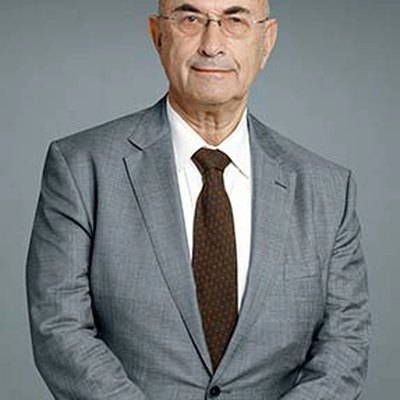
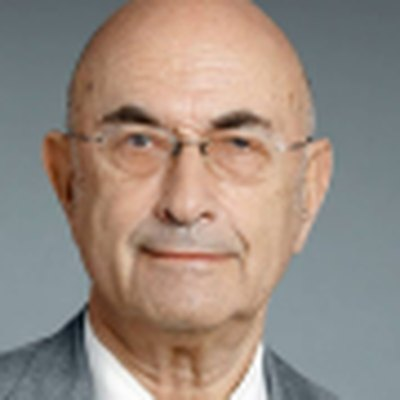
our-story-v3 leadership: real photos + bios for all 6; layout to match Figma (node 116-1699) — heading atop right column, large-name nav rows, title flows in only on active row, inactive at ~10%, left column = ring + description

diff --git a/src/components/OurStoryV3.tsx b/src/components/OurStoryV3.tsx
@@ -215,44 +215,43 @@ export function OurStoryV3() {
         {/* ── Leadership scrollytelling stage ─────────────────────────────── */}
         <div ref={leadRef} className={styles.lead}>
           <div className="wrap">
-            <p className={`eyebrow ${styles.leadEyebrow}`}>Your NESTRE Mindset Team</p>
-            <h2 className={`h2 ${styles.leadH}`}>World-class leadership.</h2>
-
             <div className={styles.leadStage}>
-              {/* left: mindset profile + bio (synced to active) */}
+              {/* left: mindset profile + supporting description (synced to active) */}
               <div className={styles.leadLeft}>
                 <MindsetRingCard values={vals} className={styles.leadRing} />
-                <div key={active} className={styles.bio}>
-                  <div className={styles.bioName}>{member.name}</div>
-                  <div className={styles.bioTitle}>{member.title}</div>
-                  <p className={styles.bioText}>{member.bio}</p>
-                </div>
+                <p key={active} className={styles.bioText}>{member.bio}</p>
               </div>
 
-              {/* right: team nav with active/inactive emphasis */}
-              <div className={styles.leadRight} role="tablist" aria-label="Leadership">
-                {LEADERS.map((l, i) => (
-                  <button
-                    key={l.id}
-                    type="button"
-                    className={`${styles.person} ${i === active ? styles.personOn : ''}`}
-                    aria-current={i === active ? 'true' : undefined}
-                    onClick={() => goTo(i)}
-                  >
-                    <span className={styles.pAva}>
-                      {l.image ? (
-                        // eslint-disable-next-line @next/next/no-img-element
-                        <img src={l.image} alt="" loading="lazy" />
-                      ) : (
-                        <span>{initialsOf(l.name)}</span>
-                      )}
-                    </span>
-                    <span className={styles.pMeta}>
-                      <span className={styles.pName}>{l.name}</span>
-                      <span className={styles.pTitle}>{l.title}</span>
-                    </span>
-                  </button>
-                ))}
+              {/* right: heading + team nav (title flows in only on the active row) */}
+              <div className={styles.leadRight}>
+                <div className={styles.leadHead}>
+                  <p className="eyebrow">Your NESTRE Mindset Team</p>
+                  <h2 className="h2">World-class leadership.</h2>
+                </div>
+                <div className={styles.leadNav} role="tablist" aria-label="Leadership">
+                  {LEADERS.map((l, i) => (
+                    <button
+                      key={l.id}
+                      type="button"
+                      className={`${styles.person} ${i === active ? styles.personOn : ''}`}
+                      aria-current={i === active ? 'true' : undefined}
+                      onClick={() => goTo(i)}
+                    >
+                      <span className={styles.pAva}>
+                        {l.image ? (
+                          // eslint-disable-next-line @next/next/no-img-element
+                          <img src={l.image} alt="" loading="lazy" />
+                        ) : (
+                          <span>{initialsOf(l.name)}</span>
+                        )}
+                      </span>
+                      <span className={styles.pMeta}>
+                        <span className={styles.pName}>{l.name}</span>
+                        <span className={styles.pTitle}>{l.title}</span>
+                      </span>
+                    </button>
+                  ))}
+                </div>
               </div>
             </div>
           </div>

diff --git a/src/components/OurStoryV3.module.css b/src/components/OurStoryV3.module.css
@@ -97,98 +97,107 @@
 .leadEyebrow {
   text-align: center;
 }
-.leadH {
-  text-align: center;
-  margin-top: 12px;
-  margin-bottom: clamp(28px, 5vh, 56px);
-}
 .leadStage {
   display: grid;
-  grid-template-columns: minmax(0, 5fr) minmax(0, 6fr);
-  gap: clamp(28px, 4vw, 64px);
+  grid-template-columns: minmax(0, 40%) minmax(0, 60%);
+  gap: clamp(28px, 5vw, 80px);
   align-items: center;
 }
 .leadLeft {
   display: flex;
   flex-direction: column;
-  gap: 22px;
+  gap: 20px;
 }
 .leadRing {
   height: auto !important;
   width: 100%;
-  max-width: 360px;
+  max-width: 320px;
   aspect-ratio: 1 / 1.04;
   margin: 0;
 }
-.bio {
-  max-width: 44ch;
-  animation: bioIn 0.5s cubic-bezier(0.22, 1, 0.36, 1) both;
-}
 @keyframes bioIn {
-  from { opacity: 0; transform: translateY(12px); }
+  from { opacity: 0; transform: translateY(10px); }
   to { opacity: 1; transform: translateY(0); }
 }
-.bioName {
-  font-size: 21px;
-  font-weight: 700;
-  letter-spacing: -0.01em;
-}
-.bioTitle {
-  font-size: 13px;
-  color: var(--aqua, #98d6d3);
-  margin-top: 3px;
-  letter-spacing: 0.02em;
-}
 .bioText {
-  font-size: 14.5px;
-  line-height: 1.6;
-  color: rgba(255, 255, 255, 0.72);
-  margin: 12px 0 0;
+  font-size: 13.5px;
+  line-height: 1.62;
+  color: rgba(255, 255, 255, 0.58);
+  margin: 0;
+  max-width: 40ch;
+  animation: bioIn 0.5s cubic-bezier(0.22, 1, 0.36, 1) both;
 }
 
-/* right team nav */
+/* right: heading + team nav */
 .leadRight {
   display: flex;
   flex-direction: column;
-  gap: 6px;
+}
+.leadHead {
+  margin-bottom: clamp(16px, 3vh, 34px);
+}
+.leadHead :global(.h2) {
+  margin-top: 10px;
+}
+.leadNav {
+  display: flex;
+  flex-direction: column;
 }
 .person {
   display: flex;
   align-items: center;
-  gap: 14px;
+  gap: 18px;
   width: 100%;
-  padding: 12px 14px;
+  padding: 11px 8px;
   border: 0;
   background: transparent;
   border-radius: 14px;
   cursor: pointer;
   text-align: left;
-  opacity: 0.4;
-  filter: saturate(0.7);
-  transition: opacity 0.35s ease, background 0.35s ease, filter 0.35s ease;
+  opacity: 0.12; /* inactive blocks ~10% */
+  transition: opacity 0.4s ease;
 }
 .personOn {
   opacity: 1;
-  filter: none;
-  background: rgba(152, 214, 211, 0.08);
 }
 .pAva {
   flex: 0 0 auto;
-  width: 52px;
-  height: 52px;
+  width: 58px;
+  height: 58px;
   border-radius: 13px;
   overflow: hidden;
   display: grid;
   place-items: center;
-  border: 1px solid rgba(152, 214, 211, 0.25);
+  border: 1px solid rgba(152, 214, 211, 0.2);
   background: linear-gradient(135deg, #e930ff 0%, #18c8ff 52%, #25e979 100%);
 }
 .pAva img { width: 100%; height: 100%; object-fit: cover; object-position: center 22%; }
-.pAva span { font-family: var(--font-instrument), system-ui, sans-serif; font-weight: 800; font-size: 17px; color: #fff; text-shadow: 0 1px 2px rgba(8, 12, 20, 0.5); }
+.pAva span { font-family: var(--font-instrument), system-ui, sans-serif; font-weight: 800; font-size: 18px; color: #fff; text-shadow: 0 1px 2px rgba(8, 12, 20, 0.5); }
 .pMeta { min-width: 0; display: flex; flex-direction: column; }
-.pName { font-size: 16px; font-weight: 700; letter-spacing: -0.01em; line-height: 1.2; }
-.pTitle { font-size: 12.5px; color: #9fb4b3; margin-top: 2px; }
-.personOn .pTitle { color: var(--aqua, #98d6d3); }
+.pName {
+  font-family: var(--font-instrument), ui-sans-serif, system-ui, sans-serif;
+  font-size: clamp(19px, 2.1vw, 27px);
+  font-weight: 700;
+  letter-spacing: -0.01em;
+  line-height: 1.12;
+  color: #fff;
+}
+/* title flows in only on the active row */
+.pTitle {
+  font-size: 15px;
+  color: var(--aqua, #98d6d3);
+  font-weight: 500;
+  max-height: 0;
+  opacity: 0;
+  margin-top: 0;
+  overflow: hidden;
+  transition: max-height 0.45s ease, opacity 0.4s ease 0.05s, margin-top 0.4s ease;
+}
+.personOn .pTitle {
+  max-height: 1.8em;
+  opacity: 1;
+  margin-top: 3px;
+}
 
 /* vertical progress dots */
 .progress {

diff --git a/src/lib/leadership.ts b/src/lib/leadership.ts
@@ -2,7 +2,7 @@ import type { MindsetValues } from '@/lib/mindset-personas'
 
 // Leadership team for the Our Story scrollytelling. View derives from
 // activeMemberIndex; scroll progress controls the active member.
-// NOTE: bios + mindset profiles are placeholders pending the final content.
+// NOTE: mindset profiles are placeholders pending final per-person numbers.
 
 export type Leader = {
   id: string
@@ -21,7 +21,7 @@ export const LEADERS: Leader[] = [
     name: 'Dr. Tommy Shavers, D.M.',
     title: 'Founder & CEO',
     image: `${P}/tommy.jpg`,
-    bio: 'Creator of the NESTRE model and a former University of Central Florida team captain. After recovering his own cognitive performance, he built NESTRE to help others train the mind like the body.',
+    bio: '15+ years organizational leadership and high-profile behavior & performance experience. Sports and human performance expert. Former NCAA D1 Captain (UCF). Published researcher.',
     profile: { cerebral: 0, alpha: 80, prime: 20 },
   },
   {
@@ -29,35 +29,39 @@ export const LEADERS: Leader[] = [
     name: 'Dr. Elkhonon Goldberg',
     title: 'Chief Scientific Officer',
     image: `${P}/goldberg.jpg`,
-    bio: 'World-renowned neuropsychologist, Director of the Luria Neuroscience Institute, and a Diplomate of the American Board of Professional Psychology.',
+    bio: 'Internationally recognized clinical neuropsychologist. NYU Clinical Professor of Neurology. Founding Director, Luria Neuroscience Institute. Neuroplasticity pioneer.',
     profile: { cerebral: 50, alpha: 21, prime: 29 },
   },
   {
     id: 'tomica',
     name: 'Tomica Nelson-Shavers, MBA',
     title: 'President',
-    bio: 'Leads NESTRE operations and growth, translating the science of neuro-strength into a premium, human experience for every member.',
+    image: `${P}/tomica.jpg`,
+    bio: 'President of NESTRE Health & Performance, Inc. MBA with over a decade of experience in business administration, consulting, and executive leadership.',
     profile: { cerebral: 34, alpha: 40, prime: 26 },
   },
   {
     id: 'perez',
     name: 'Carlos Perez',
     title: 'Chief Operating Officer',
-    bio: 'Runs day-to-day operations across NESTRE, keeping the training experience consistent, reliable, and scalable.',
+    image: `${P}/perez.jpg`,
+    bio: '30+ years leadership. U.S. Army Special Forces veteran. Expert in interagency, DoD, and cross-functional teams. Responsible for 620-neurolab deployment execution.',
     profile: { cerebral: 30, alpha: 40, prime: 30 },
   },
   {
     id: 'dorosz',
     name: 'Daniel Dorosz',
     title: 'Chief Technology Officer',
-    bio: 'A seasoned software engineer and technical lead. Builds the platform that turns cognitive performance data into personalized training.',
+    image: `${P}/dorosz.jpg`,
+    bio: '18 years enterprise software. Data science, AI/ML, and deep neural networks across finance, telecom, and healthcare.',
     profile: { cerebral: 44, alpha: 26, prime: 30 },
   },
   {
-    id: 'buckaloo',
+    id: 'clayton',
     name: 'Clayton Buckaloo',
     title: 'Chief Growth Officer',
-    bio: 'Leads brand and growth, bringing NESTRE’s neuro-strength approach to more people, teams, and performers.',
+    image: `${P}/clayton.jpg`,
+    bio: 'Leads commercialization, brand, go-to-market strategy, and market expansion. Brings experience across health, fitness, performance, and consumer growth to turn NESTRE’s science and technology into a scalable category, customer experience, and revenue engine.',
     profile: { cerebral: 28, alpha: 44, prime: 28 },
   },
 ]
